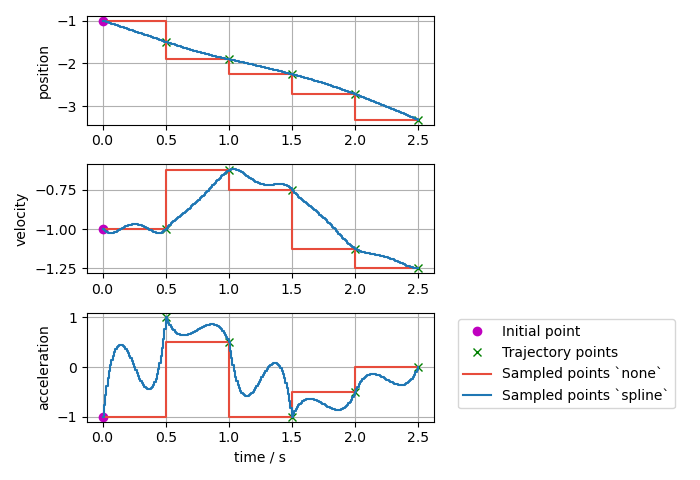
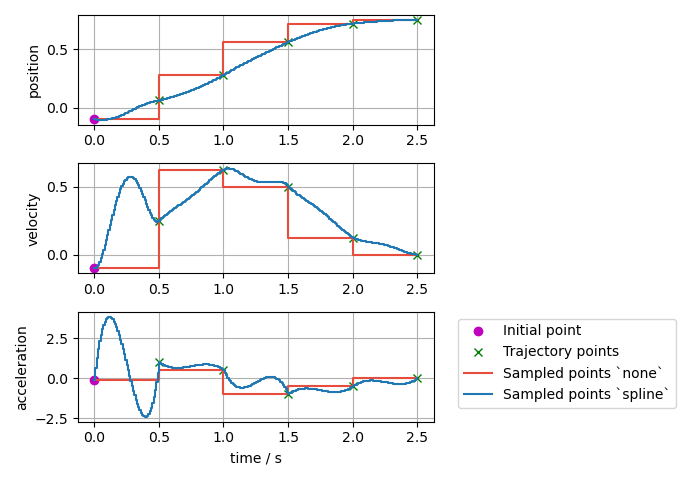
Use the same trajectory for all images

diff --git a/joint_trajectory_controller/doc/trajectory.rst b/joint_trajectory_controller/doc/trajectory.rst
@@ -82,7 +82,7 @@ To visualize the difference of the different interpolation methods and their inp
 .. image:: spline_position_velocity_acceleration.png
   :alt: Sampled trajectory with splines if position, velocity, and acceleration is given
 
-* Sampled trajectory if position, velocity, and acceleration points are given with a nonzero initial point:
+* Sampled trajectory if the same position, velocity, and acceleration points as above are given, but with a nonzero initial point:
 
 .. image:: spline_position_velocity_acceleration_initialpoint.png
   :alt: Sampled trajectory with splines if position, velocity, and acceleration is given with nonzero initial point
